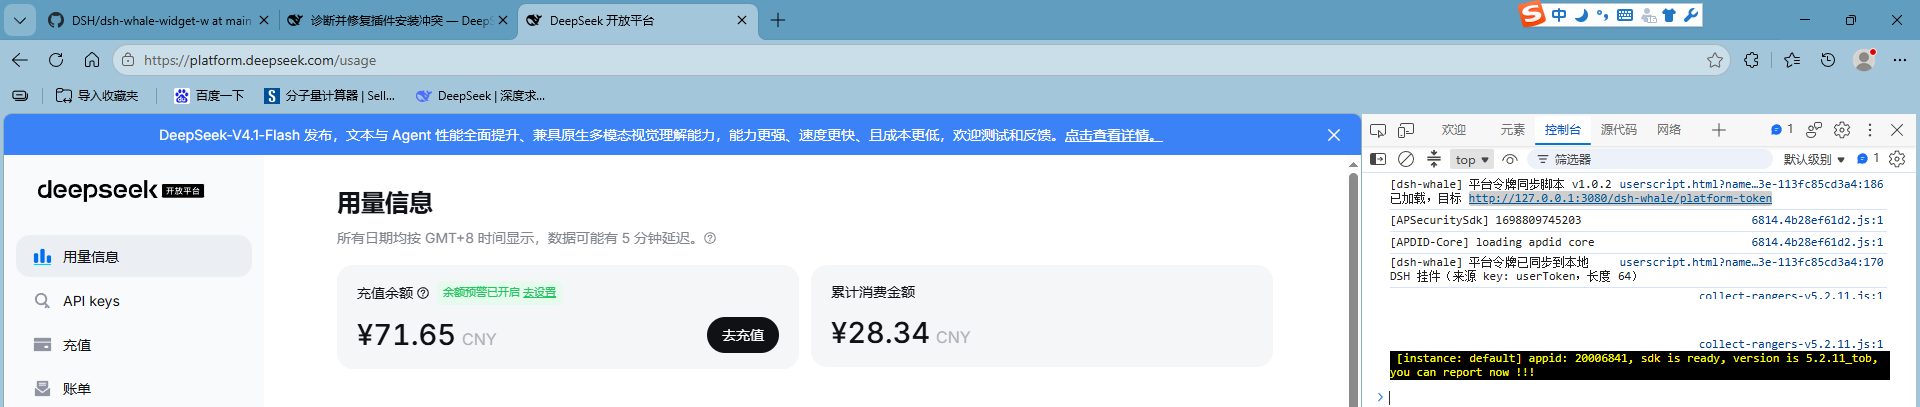
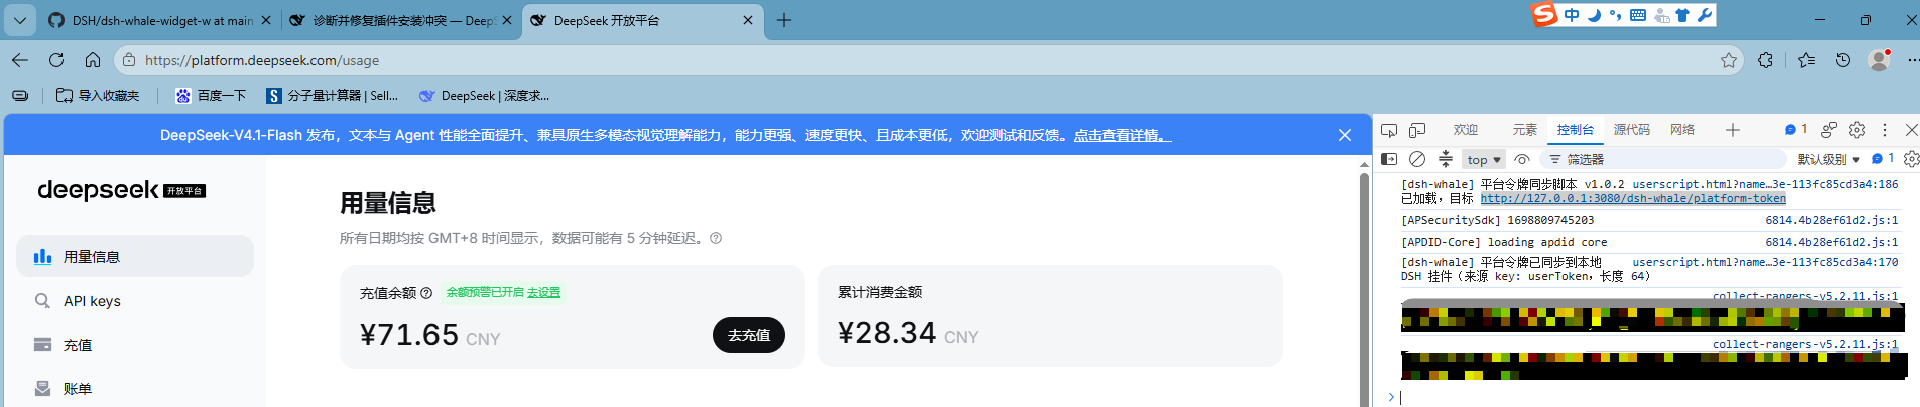
docs: 控制台截图改用像素化打码版（用户手打，盖住 DeepSeek 埋点两行）

diff --git a/dsh-whale-widget-w/README-W.md b/dsh-whale-widget-w/README-W.md
@@ -158,7 +158,7 @@ B 组自带「今日用量」「本月用量」两张明细泡：
 ![Tampermonkey 安装页（脚本 v1.0.2，来源就是本机 dsh）](docs/screenshot-tampermonkey.png)
 ![装好后在 platform.deepseek.com 的控制台可见两行 [dsh-whale] 日志：脚本已加载 + 平台令牌已同步（来源 key: userToken，长度 64）](docs/screenshot-token-sync-console.png)
 
-> 上面第二张图里，DeepSeek 页面自己的埋点日志（含账号标识）已被抹除，只保留 `[dsh-whale]` 两行 —— 本仓库所有截图同理，发布前会检查是否含账号/密钥类信息。
+> 上面第二张图里，DeepSeek 页面自己的埋点日志（含账号标识）已做像素化打码，只保留 `[dsh-whale]` 两行 —— 本仓库所有截图同理，发布前会检查是否含账号/密钥类信息。
 
 ## 五、节假日峰谷
 
